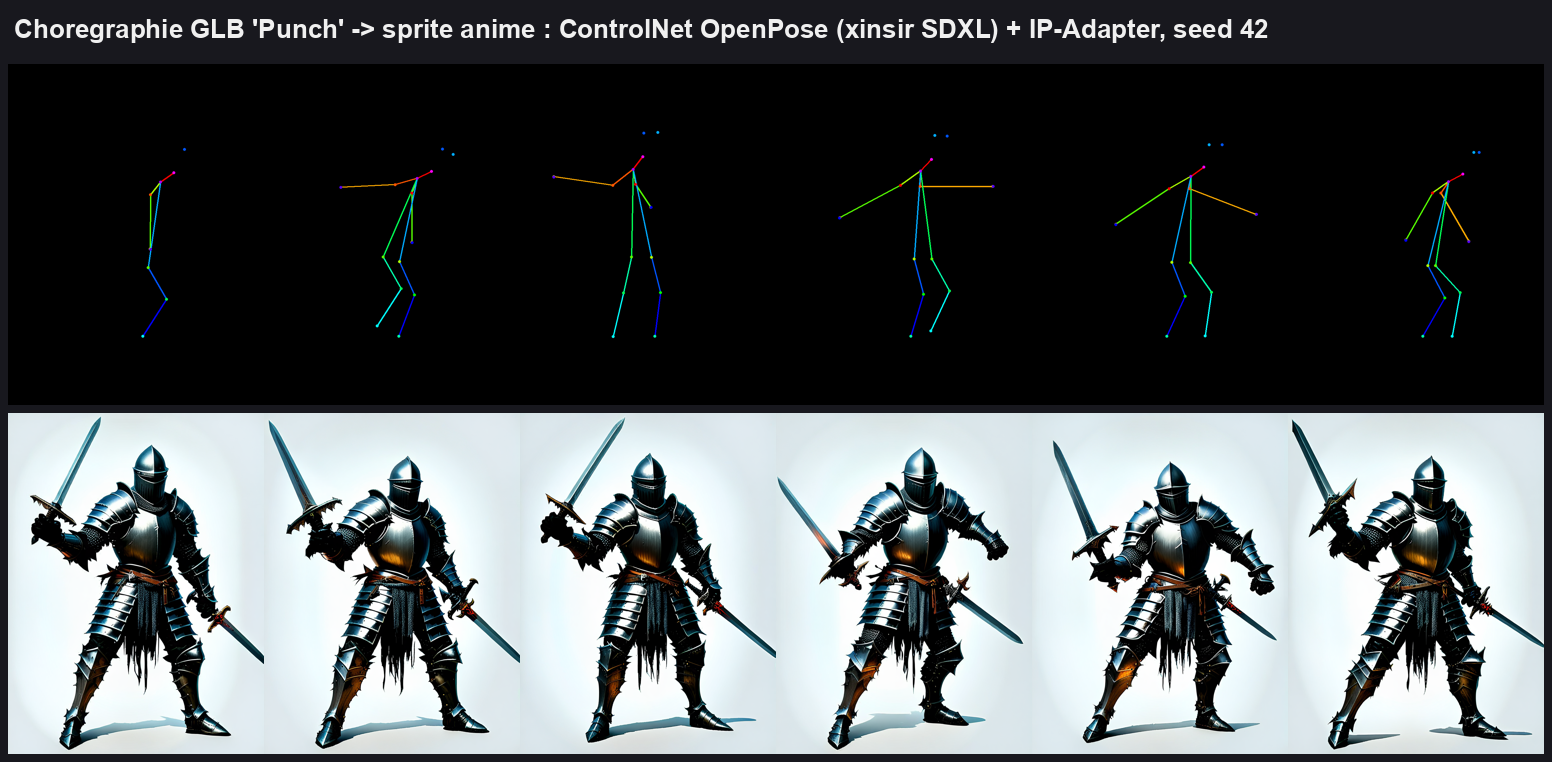
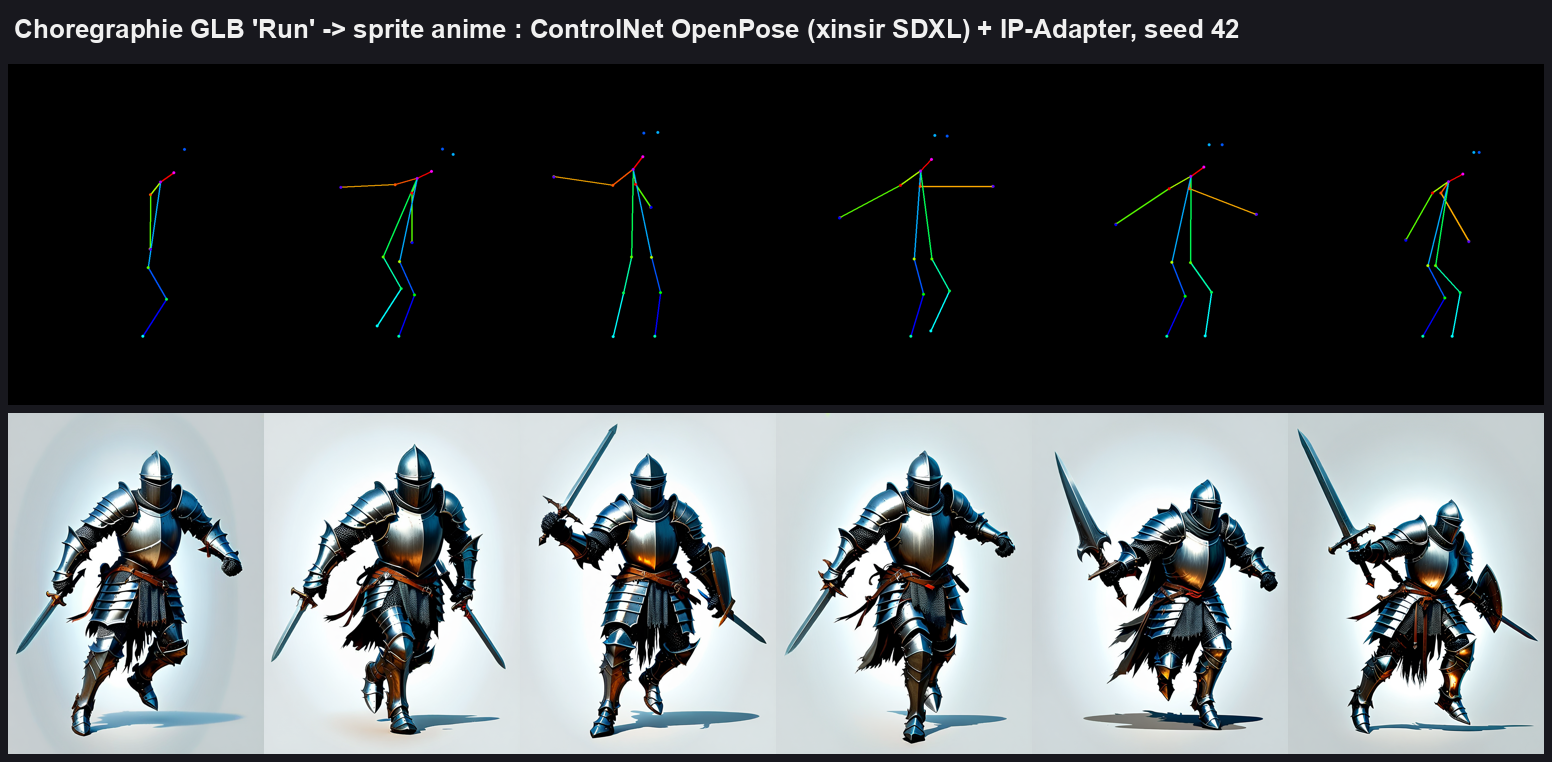
Iteration animation: retour utilisateur 'pas terrible' -> ControlNet 1.0 + IP-Adapter 0.45 + choregraphie Run cyclique = course lisible; arbitrage IP fort = pose ecrasee consigne (MEMORY_BANK, skill); livrables README remplaces

Changed region(s): [[0.3402, 0.5433, 1.0, 0.9961], [0.0, 0.5433, 0.3402, 0.9961], [0.1546, 0.0, 0.8351, 0.0604]]

diff --git a/scripts/proto_anim_controlnet/generer_boucle_punch.py b/scripts/proto_anim_controlnet/generer_boucle_punch.py
@@ -28,18 +28,18 @@ from core.diffusion import generer_image_vulkan
 from core.pose_ops import dessiner_squelette_openpose
 
 DOSSIER = os.path.join("output", "test_anim_controlnet")
-CHEMIN_POINTS = os.path.join(DOSSIER, "points_punch.json")
+CHEMIN_POINTS = os.path.join(DOSSIER, "points_run.json")
 SDXL = r"C:/Modeles_LLM/juggernautXL_ragnarok.safetensors"
 CONTROLNET = r"C:/Modeles_LLM/controlnet_openpose_sdxl_xinsir.safetensors"
 IP_ADAPTER = r"C:/Modeles_LLM/ip-adapter-plus_sdxl_vit-h.safetensors"
 CLIP_VISION = r"C:/Modeles_LLM/clip_vision_h.safetensors"
-PROMPT = ("fantasy knight in shining steel plate armor, sword slash attack, dynamic action, "
+PROMPT = ("fantasy knight in shining steel plate armor, running, dynamic action, "
           "full body, game character sprite, isolated on plain white background")
 L, H = 768, 1024
 MARGE = 0.10          # fraction de marge autour du bbox de la séquence
-FORCE_POSE = 0.9      # --control-strength (recette validée)
+FORCE_POSE = 1.0      # --control-strength (recette validée)
 FORCE_APPARENCE = 0.55  # img2img depuis la frame 0 (topologie étoile)
-FORCE_IP = 0.7        # --ip-adapter-strength : verrou d'apparence sans ancrer la pose
+FORCE_IP = 0.45        # --ip-adapter-strength : verrou d'apparence sans ancrer la pose
 REFERENCE_APPARENCE = os.path.join(DOSSIER, "reference_apparence.png")  # chevalier statique validé
 SEED = 42
 
@@ -114,15 +114,14 @@ def assembler():
     if len(fichiers) < 12:
         return
     frames = [Image.open(os.path.join(DOSSIER, f)).convert("RGB") for f in fichiers]
-    # GIF boucle ping-pong (l'action Punch n'est pas cyclique : 0..11..1 évite le saut)
-    aller = frames + frames[-2:0:-1]
-    aller[0].save(os.path.join(DOSSIER, "boucle_punch.gif"), save_all=True,
-                  append_images=aller[1:], duration=120, loop=0)
+    # GIF boucle directe (Run = cycle : frame 12 == frame 0)
+    frames[0].save(os.path.join(DOSSIER, "boucle_run.gif"), save_all=True,
+                   append_images=frames[1:], duration=100, loop=0)
     # bande horizontale
     bande = Image.new("RGB", (L // 2 * len(frames), H // 2), "white")
     for i, f in enumerate(frames):
         bande.paste(f.resize((L // 2, H // 2)), (i * L // 2, 0))
-    bande.save(os.path.join(DOSSIER, "bande_punch.png"), "PNG")
+    bande.save(os.path.join(DOSSIER, "bande_run.png"), "PNG")
     print("GIF + bande assemblés")
 
 

diff --git a/scripts/proto_anim_controlnet/exporter_squelettes_punch.py b/scripts/proto_anim_controlnet/exporter_squelettes_punch.py
@@ -12,9 +12,9 @@ import bpy
 import json
 
 GLB = r"C:\GIT\roblox\assets3d\bunny_quaternius.glb"
-ACTION = "CharacterArmature|Punch"
+ACTION = "CharacterArmature|Run"
 NB_FRAMES = 12
-SORTIE = r"C:\GIT\generator-assets\output\test_anim_controlnet\points_punch.json"
+SORTIE = r"C:\GIT\generator-assets\output\test_anim_controlnet\points_run.json"
 
 # Mapping os Quaternius (.L/.R = côté SUJET) -> keypoints COCO 18 (l_*/r_* = côté sujet).
 # Pas d'os de main chez Quaternius : poignet = queue du LowerArm. Oreilles réelles via Ear1.

diff --git a/docs/MEMORY_BANK.md b/docs/MEMORY_BANK.md
@@ -465,6 +465,7 @@
 * **Plumbing livré** : `generer_image_vulkan(..., control_image, control_net, control_strength=0.9)` — validation (les 2 params requis ensemble, fichier existant), affichage « + ControlNet » dans le mode, flags injectés dans les 2 branches (Flux/SDXL — non testé côté Flux, ControlNet Flux non couvert amont). ruff OK, 57 tests verts, **surface CLI inchangée** (params helper, pas de nouveaux flags workflow).
 * **✅ VALIDATION + PROTOTYPE ANIMATION (même jour, accord « Génère 1. : ça validera le résultat pour skill et readme »)** — **sprite animé de 12 frames** généré depuis la chorégraphie réelle d'un rig : action `CharacterArmature|Punch` du GLB bunny Quaternius → keypoints COCO 18 par frame via **Blender headless** (`scripts/proto_anim_controlnet/exporter_squelettes_punch.py`, projection monde→image avec transformation FIXE sur la séquence) → génération frame par frame → GIF ping-pong + bande + planche README. Livrables : `output/test_anim_controlnet/` (12 frames, `boucle_punch.gif`, `bande_punch.png`, `planche_readme.png`), commités dans `docs/exemples/personnages/` (planche + GIF 384×512, 2,6 Mo) et README §Visual Showcase 6.
 * **Recette animation retenue (passe finale)** : chaque frame = **txt2img + ControlNet (squelette k, 0,9) + IP-Adapter Plus (référence d'apparence unique, 0,7)**, même prompt + même seed. Modèle IP-Adapter : `h94/IP-Adapter` `sdxl_models/ip-adapter-plus_sdxl_vit-h.safetensors` (0,85 Go → `C:\Modeles_LLM\`), encodeur `--clip_vision` = notre `clip_vision_h.safetensors` (1,26 Go, celui de Wan I2V — compatible). ~50 s/frame 768×1024, VRAM ~9 Go. Prompt ALIGNÉ avec la référence (« shining steel » ↔ chevalier acier clair).
-* **⚠ 3 écueils mesurés sur les passes intermédiaires (ne pas refaire)** : ① **img2img « étoile » ancre la pose** — init = frame 0 à strength 0,55 → apparence parfaite mais le personnage NE BOUGE PLUS (le latent de départ domine le ControlNet) : le contrôle de pose exige txt2img ; ② **dérive d'apparence si prompt ≠ référence** (prompt « dark armor » + référence acier clair à IP 0,7 → armures sombres hétérogènes) et **sur-verrouillage du ton à IP 0,85 sur référence sombre** (silhouettes noires + fond lumineux) → référence alignée au prompt, strength 0,7 ; ③ **attaque vue de FACE = foreshortening** (bras vers la caméra → squelette 2D quasi statique, animation illisible) → projeter le rig en **vue de profil** (simple re-projection du JSON 3D, pas de re-passage Blender). Bonus : bug d'offset vertical corrigé (`oy = H/2 + cz*échelle` pour image_y = oy − z·éch) ; boucle non cyclique → GIF **ping-pong** (frames 0..11..1).
+* **⚠ 3 écueils mesurés sur les passes intermédiaires (ne pas refaire)** : ① **img2img « étoile » ancre la pose** — init = frame 0 à strength 0,55 → apparence parfaite mais le personnage NE BOUGE PLUS (le latent de départ domine le ControlNet) : le contrôle de pose exige txt2img ; ② **dérive d'apparence si prompt ≠ référence** (prompt « dark armor » + référence acier clair à IP 0,7 → armures sombres hétérogènes) et **sur-verrouillage du ton à IP 0,85 sur référence sombre** (silhouettes noires + fond lumineux) → référence alignée au prompt ; ③ **attaque vue de FACE = foreshortening** (bras vers la caméra → squelette 2D quasi statique, animation illisible) → projeter le rig en **vue de profil** (simple re-projection du JSON 3D, pas de re-passage Blender). Bonus : bug d'offset vertical corrigé (`oy = H/2 + cz*échelle` pour image_y = oy − z·éch) ; boucle non cyclique → GIF **ping-pong** (frames 0..11..1).
+* **🔧 Itération « c'est pas terrible » (retour utilisateur sur la v1 punch, même jour)** : à IP 0,7 le **verrou d'apparence écrase la pose** (le personnage converge vers la pose de la référence → quasi immobile). Correctifs appliqués et validés : **ControlNet 1.0 + IP-Adapter 0.45** + chorégraphie **`Run`** (cycle naturellement cyclique → boucle directe sans ping-pong, action bien plus lisible de profil qu'un punch) → course explicite (jambes alternées, stride aérien). **Arbitrage à retenir : plus l'IP-Adapter est fort, plus la pose converge vers celle de la référence — pour une action dynamique rester ≤ 0,5** (l'alignement prompt/référence + seed fixe assurant la cohérence d'apparence). Livrables remplacés (`bande_run.png`, `boucle_run.gif`, planche README 1,4 Mo) ; archives des passes : `output/test_anim_controlnet/v1_vue_face/`, `v3_punch_ip07/`.
 * **Câblage production** : `pose_control` conditionne désormais RÉELLEMENT sur son squelette (`controlnet_pose` en config, défaut `DEFAULT_CONTROLNET_POSE` = xinsir, strength 0,9 ; **repli automatique prompt seul** si le fichier manque). ⚠ **Écueil d'intégration : le ControlNet xinsir est SDXL UNIQUEMENT** — sd-cli refuse (`code retour 1`) quand le modèle actif est Flux → `pose_control` bascule automatiquement sur le checkpoint SDXL (`controlnet_sd_model`, défaut `DEFAULT_SDXL_MODEL` = juggernautXL) quand le conditionnement est actif. Surface CLI inchangée, 57 tests verts, ruff OK. Skill (`SKILL.md` + `catalogue_workflows.md`) et `C:\SD\README.md` à jour. Modèles à provisionner pour une nouvelle machine : xinsir 2,5 Go + ip-adapter-plus 0,85 Go.
 * **Suite convenue : route 2 à tester** — vidéo suivant une chorégraphie via `--control-video` (frames de squelettes en répertoire) sur LTX/Wan ; contraintes connues : marge mémoire LTX fragile sur master-908, crash Wan I2V 0xC0000409 non résolu (#1976).

diff --git a/README.md b/README.md
@@ -393,14 +393,14 @@ All clips generated 100% locally on AMD RX 6950 XT (Vulkan/GGUF, no CUDA). **GIF
 ---
 
 ### 6. Pose-Controlled Character Animation (ControlNet + IP-Adapter) — 🕺
-Choreography from a rigged GLB (`CharacterArmature|Punch`, Quaternius) is exported frame-by-frame as OpenPose COCO-18 skeleton maps (fixed camera, fixed scale across the whole sequence), then every frame is generated locally with **SDXL + ControlNet OpenPose** (pose conditioning) + **IP-Adapter Plus** (appearance lock on a single reference render). 12 frames @ 768×1024, seed 42, ~50 s/frame on RX 6950 XT (Vulkan, sd-cli).
+Choreography from a rigged GLB (`CharacterArmature|Run`, Quaternius) is exported frame-by-frame as OpenPose COCO-18 skeleton maps (side view, fixed camera and scale across the whole sequence), then every frame is generated locally with **SDXL + ControlNet OpenPose** (pose conditioning, strength 1.0) + **IP-Adapter Plus** (appearance lock on a single reference render, strength 0.45). 12 cyclic frames @ 768×1024, seed 42, ~50 s/frame on RX 6950 XT (Vulkan, sd-cli).
 
-<img src="docs/exemples/personnages/planche_pose_controlnet.png" width="82%" alt="Skeleton choreography vs ControlNet-generated knight frames" />
+<img src="docs/exemples/personnages/planche_pose_controlnet.png" width="82%" alt="Skeleton run choreography vs ControlNet-generated knight frames" />
 
-| 🕺 Animated result (ping-pong GIF) |
+| 🕺 Animated result (seamless cyclic GIF) |
 | :---: |
-| <img src="docs/exemples/personnages/boucle_punch_pingpong.gif" width="36%" alt="Pose-controlled knight animation (GIF)" /> |
-| *The armor stays identical across all frames (IP-Adapter lock) while the motion follows the skeleton exactly (ControlNet 0.9) — prototype: `scripts/proto_anim_controlnet/`* |
+| <img src="docs/exemples/personnages/boucle_run.gif" width="36%" alt="Pose-controlled knight run cycle (GIF)" /> |
+| *The armor stays the same character in every frame (IP-Adapter lock) while the run cycle follows the rig exactly (ControlNet) — prototype: `scripts/proto_anim_controlnet/`* |
 
 ---
 

diff --git a/.agents/skills/generator-assets/SKILL.md b/.agents/skills/generator-assets/SKILL.md
@@ -110,13 +110,13 @@ maintenant **RÉELLEMENT** la génération sur le squelette via **ControlNet Ope
 prérequis amont PR #1752 présent dans nos binaires épinglés) — si le fichier manque, repli
 automatique prompt seul. Pour une **animation de personnage** (sprite multi-frames) : chorégraphie
 d'un rig GLB → keypoints COCO par frame (Blender headless, scripts `scripts/proto_anim_controlnet/`),
-génération frame par frame **txt2img + ControlNet + IP-Adapter Plus sur UNE référence d'apparence**
-(strength 0,7). ⚠ Écueils mesurés : l'img2img en étoile (init = frame 0) **ancre la pose** (à 0,55
-le personnage ne bouge plus — utiliser txt2img + IP-Adapter) ; une attaque vue de **FACE** est
-foreshortened et illisible en 2D (squelette quasi statique) → projeter le rig en **vue de profil** ;
-la référence IP-Adapter doit être **alignée avec le prompt** (acier clair ↔ « shining steel »), sinon
-dérive (référence sombre à 0,85 → silhouettes noires) ; boucle non cyclique → assembler en GIF
-ping-pong. Coût : ~50 s/frame 768×1024, VRAM ~9 Go.
+génération frame par frame **txt2img + ControlNet 1.0 + IP-Adapter Plus 0.45 sur UNE référence
+d'apparence alignée avec le prompt**. ⚠ Écueils mesurés : l'img2img en étoile (init = frame 0) **ancre
+la pose** (à 0,55 le personnage ne bouge plus — utiliser txt2img + IP-Adapter) ; **l'IP-Adapter trop
+fort (≥ 0,7) écrase aussi la pose** (convergence vers la pose de la référence → personnage immobile)
+→ rester ≤ 0,5 pour une action dynamique ; choisir une chorégraphie **cyclique et lisible de profil**
+(Run > Punch — une attaque vue de FACE est foreshortened, squelette 2D quasi statique) ; boucle non
+cyclique → assembler en GIF ping-pong. Coût : ~50 s/frame 768×1024, VRAM ~9 Go.
 
 → Le guide détaillé (règles absolues UV/`.mhclo`, catalogue bilingue 177 modèles) est dans
 [`GUIDE_AGENT_IA_HABILLAGE.md`](../../../GUIDE_AGENT_IA_HABILLAGE.md) — le lire pour tout travail MakeHuman.
